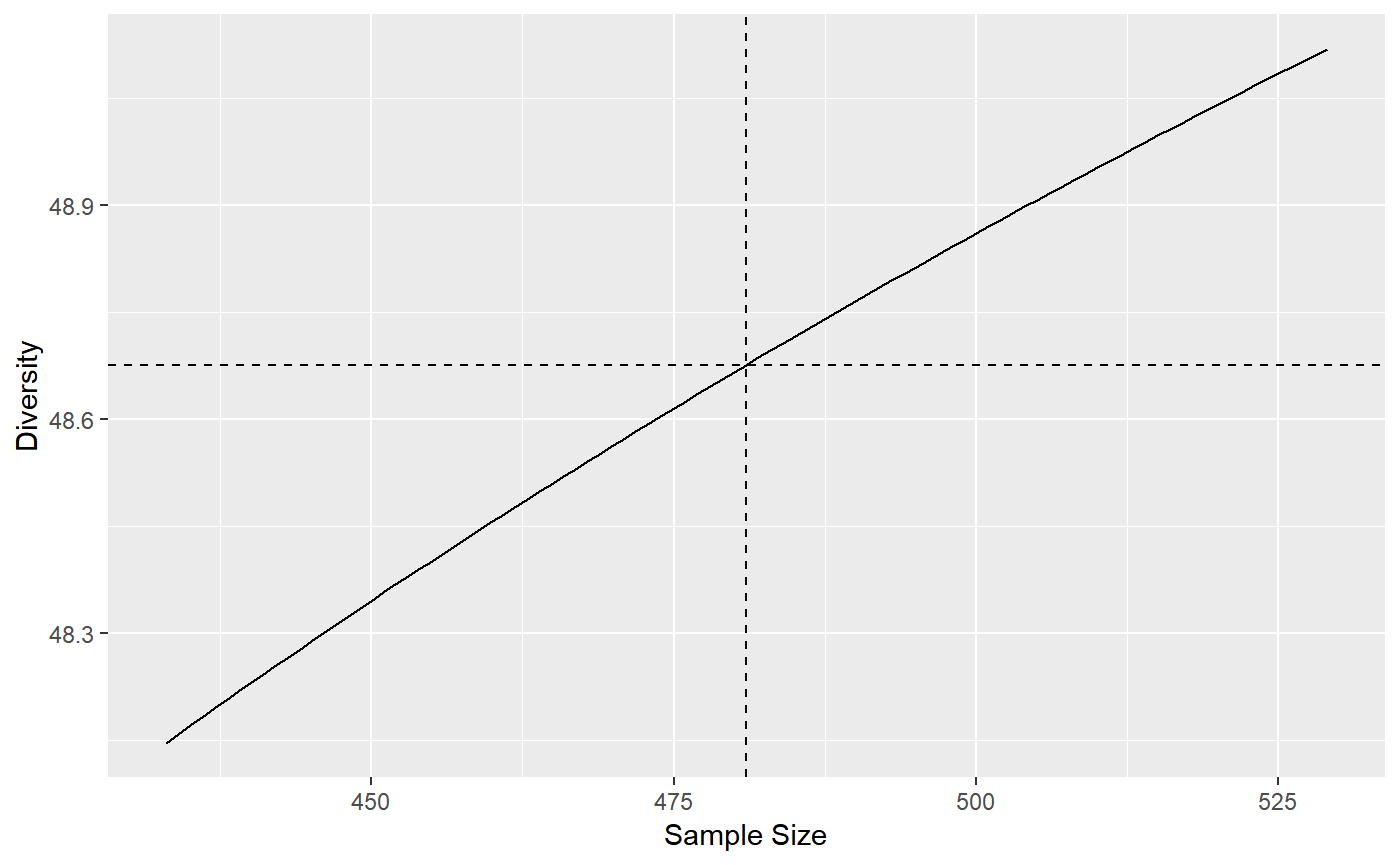
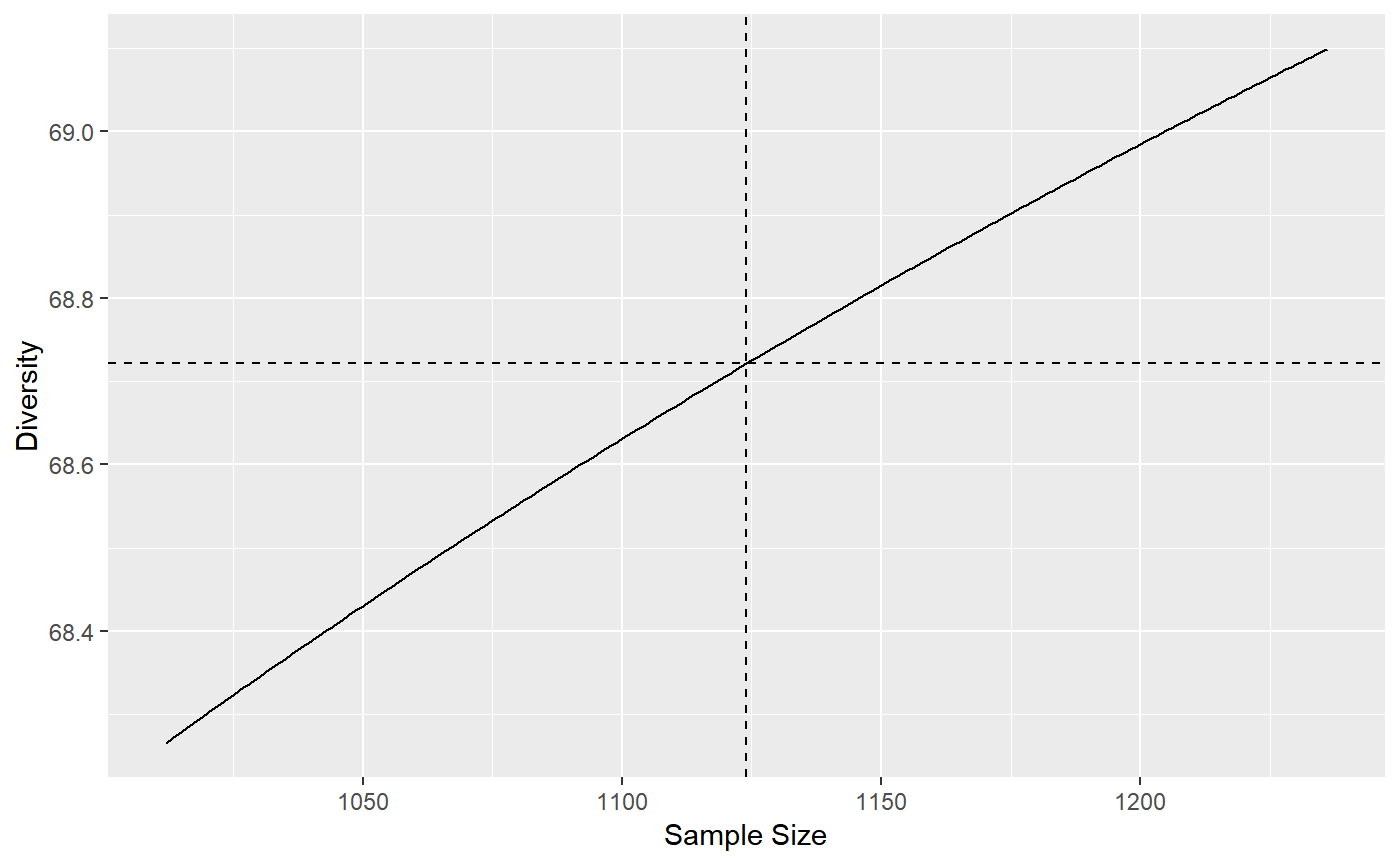
Consistency of extrapolation in accumulation, profiles and pointwise estimation

diff --git a/docs/dev/articles/articles/extrapolation.html b/docs/dev/articles/articles/extrapolation.html
@@ -38,7 +38,7 @@
       </button>
       <span class="navbar-brand">
         <a class="navbar-link" href="../../index.html">entropart</a>
-        <span class="version label label-danger" data-toggle="tooltip" data-placement="bottom" title="In-development version">1.5.3.9010</span>
+        <span class="version label label-danger" data-toggle="tooltip" data-placement="bottom" title="In-development version">1.5.3.9011</span>
       </span>
     </div>
 
@@ -116,71 +116,102 @@
 <div class="sourceCode"><pre class="sourceCode r"><code class="sourceCode r"><span class="kw"><a href="https://www.rdocumentation.org/packages/base/topics/library">library</a></span>(<span class="st">"entropart"</span>)</code></pre></div>
 <pre><code>## Le chargement a nécessité le package : ggplot2</code></pre>
 <div class="sourceCode"><pre class="sourceCode r"><code class="sourceCode r"><span class="kw"><a href="https://www.rdocumentation.org/packages/utils/topics/data">data</a></span>(<span class="st">"Paracou618"</span>)
-<span class="co"># 1 ha of tropical forest, distribution of probabilities</span>
-P18 &lt;-<span class="st"> </span>Paracou618.MC<span class="op">$</span>Psi[, <span class="st">"P018"</span>]
+<span class="co"># 2 ha of tropical forest, distribution of probabilities</span>
+ParacouP &lt;-<span class="st"> </span>Paracou618.MC<span class="op">$</span>Ps
 <span class="co"># Diversity of order 1, no reduce-bias estimator used.</span>
-<span class="kw"><a href="../../reference/Diversity.html">Diversity</a></span>(P18, <span class="dt">q=</span><span class="dv">1</span>)</code></pre></div>
-<pre><code>##     None 
-## 83.20917</code></pre>
+<span class="kw"><a href="../../reference/Diversity.html">Diversity</a></span>(ParacouP, <span class="dt">q=</span><span class="dv">1</span>)</code></pre></div>
+<pre><code>##   None 
+## 113.98</code></pre>
 <p>Further estimation requires abundance vectors, i.e. the number of individuals per species. Then, the default estimator is the asymptotic one.</p>
-<div class="sourceCode"><pre class="sourceCode r"><code class="sourceCode r"><span class="co"># 1 ha of tropical forest, distribution of abundances</span>
-N18 &lt;-<span class="st"> </span>Paracou618.MC<span class="op">$</span>Nsi[, <span class="st">"P018"</span>]
+<div class="sourceCode"><pre class="sourceCode r"><code class="sourceCode r"><span class="co"># 2 ha of tropical forest, distribution of abundances</span>
+ParacouN &lt;-<span class="st"> </span>Paracou618.MC<span class="op">$</span>Ns
 <span class="co"># Diversity of order 1, best asymptotic estimator used.</span>
-<span class="kw"><a href="../../reference/Diversity.html">Diversity</a></span>(N18, <span class="dt">q=</span><span class="dv">1</span>)</code></pre></div>
+<span class="kw"><a href="../../reference/Diversity.html">Diversity</a></span>(ParacouN, <span class="dt">q=</span><span class="dv">1</span>)</code></pre></div>
 <pre><code>##  UnveilJ 
-## 118.2713</code></pre>
+## 138.1078</code></pre>
 <p>Several asymptotic estimators are available in the literature and implemented in <em>entropart</em>. For consistency, <em>entropart</em> uses the jackknife estimator of richness and the unveiled jackknife estimator for entropy. The advantage of these estimators is that they provide reliable estimations even though the sampling effort is low: then, the estimation variance increases but its bias remains acceptable because the order of the jackknife estimator is chosen according to the data. Poorly-sampled communities are estimated by a higher-order jackknife, resulting in higher estimation variance.</p>
 <p>For well-sampled communities, i.e. in the domain of validity of the jacknife of order 1, The Chao1 estimator of diversity and the Chao-Jost estimator of entropy are the best choices because they have the best mathematical support, but they will severely underestimate the diversity of poorly-sampled communities. They also are more computer-intensive.</p>
-<div class="sourceCode"><pre class="sourceCode r"><code class="sourceCode r"><span class="co"># Estimation of richness relies on jackknife 3 (very poor sampling)</span>
-<span class="kw"><a href="../../reference/Richness.html">Richness</a></span>(N18)</code></pre></div>
-<pre><code>## Jackknife 3 
-##         309</code></pre>
+<div class="sourceCode"><pre class="sourceCode r"><code class="sourceCode r"><span class="co"># Estimation of richness relies on jackknife 2 (poor sampling)</span>
+<span class="kw"><a href="../../reference/Richness.html">Richness</a></span>(ParacouN)</code></pre></div>
+<pre><code>## Jackknife 2 
+##         359</code></pre>
 <div class="sourceCode"><pre class="sourceCode r"><code class="sourceCode r"><span class="co"># Richness is underestimated by Chao1 estimator</span>
-<span class="kw"><a href="../../reference/Richness.html">Richness</a></span>(N18, <span class="dt">Correction=</span><span class="st">"Chao1"</span>)</code></pre></div>
+<span class="kw"><a href="../../reference/Richness.html">Richness</a></span>(ParacouN, <span class="dt">Correction=</span><span class="st">"Chao1"</span>)</code></pre></div>
 <pre><code>##    Chao1 
-## 254.0888</code></pre>
+## 314.9348</code></pre>
 <div class="sourceCode"><pre class="sourceCode r"><code class="sourceCode r"><span class="co"># Diversity of order 1 underestimated by Chao-Jost estimator</span>
-<span class="kw"><a href="../../reference/Diversity.html">Diversity</a></span>(N18, <span class="dt">q=</span><span class="dv">1</span>, <span class="dt">Correction=</span><span class="st">"ChaoJost"</span>)</code></pre></div>
+<span class="kw"><a href="../../reference/Diversity.html">Diversity</a></span>(ParacouN, <span class="dt">q=</span><span class="dv">1</span>, <span class="dt">Correction=</span><span class="st">"ChaoJost"</span>)</code></pre></div>
 <pre><code>## ChaoJost 
-## 110.6652</code></pre>
+## 133.2409</code></pre>
 </div>
 <div id="choosing-the-estimation-level" class="section level1">
 <h1 class="hasAnchor">
 <a href="#choosing-the-estimation-level" class="anchor"></a>Choosing the estimation level</h1>
 <p>Asymptotic estimation is not always the best choice, for example when comparing the diversity of poorly-sampled communities: a lower sampe coverage can be chosen to limit the uncertainty of estimation.</p>
 <div class="sourceCode"><pre class="sourceCode r"><code class="sourceCode r"><span class="co"># Actual sample coverage</span>
-<span class="kw"><a href="../../reference/Coverage.html">Coverage</a></span>(N18)</code></pre></div>
+<span class="kw"><a href="../../reference/Coverage.html">Coverage</a></span>(ParacouN)</code></pre></div>
 <pre><code>## ZhangHuang 
-##  0.8463782</code></pre>
+##  0.9226675</code></pre>
 <p>The estimation level may be a sample size or a sample coverage that is converted internally into a sample size.</p>
 <div class="sourceCode"><pre class="sourceCode r"><code class="sourceCode r"><span class="co"># Diversity at half the sample size (interpolated)</span>
-<span class="kw"><a href="../../reference/Diversity.html">Diversity</a></span>(N18, <span class="dt">q=</span><span class="dv">1</span>, <span class="dt">Level=</span><span class="kw"><a href="https://www.rdocumentation.org/packages/base/topics/Round">round</a></span>(<span class="kw"><a href="https://www.rdocumentation.org/packages/base/topics/sum">sum</a></span>(N18)<span class="op">/</span><span class="dv">2</span>))</code></pre></div>
-<pre><code>##   Interp 
-## 67.84872</code></pre>
+<span class="kw"><a href="../../reference/Diversity.html">Diversity</a></span>(ParacouN, <span class="dt">q=</span><span class="dv">1</span>, <span class="dt">Level=</span><span class="kw"><a href="https://www.rdocumentation.org/packages/base/topics/Round">round</a></span>(<span class="kw"><a href="https://www.rdocumentation.org/packages/base/topics/sum">sum</a></span>(ParacouN)<span class="op">/</span><span class="dv">2</span>))</code></pre></div>
+<pre><code>##  Interp 
+## 100.016</code></pre>
 <div class="sourceCode"><pre class="sourceCode r"><code class="sourceCode r"><span class="co"># Sample size corresponding to 90% coverage</span>
-<span class="kw"><a href="../../reference/Coverage.html">Coverage2Size</a></span>(N18, <span class="dt">SampleCoverage=</span><span class="fl">0.9</span>)</code></pre></div>
-<pre><code>## [1] 774</code></pre>
+<span class="kw"><a href="../../reference/Coverage.html">Coverage2Size</a></span>(ParacouN, <span class="dt">SampleCoverage=</span><span class="fl">0.9</span>)</code></pre></div>
+<pre><code>## [1] 861</code></pre>
 <div class="sourceCode"><pre class="sourceCode r"><code class="sourceCode r"><span class="co"># Diversity at 90% sample coverage</span>
-<span class="kw"><a href="../../reference/Diversity.html">Diversity</a></span>(N18, <span class="dt">q=</span><span class="dv">1</span>, <span class="dt">Level=</span><span class="fl">0.9</span>)</code></pre></div>
-<pre><code>##     Best 
-## 95.05594</code></pre>
+<span class="kw"><a href="../../reference/Diversity.html">Diversity</a></span>(ParacouN, <span class="dt">q=</span><span class="dv">1</span>, <span class="dt">Level=</span><span class="fl">0.9</span>)</code></pre></div>
+<pre><code>##   Interp 
+## 109.1493</code></pre>
 <div class="sourceCode"><pre class="sourceCode r"><code class="sourceCode r"><span class="co"># Equal to </span>
-<span class="kw"><a href="../../reference/Diversity.html">Diversity</a></span>(N18, <span class="dt">q=</span><span class="dv">1</span>, <span class="dt">Level=</span><span class="kw"><a href="../../reference/Coverage.html">Coverage2Size</a></span>(N18, <span class="dt">SampleCoverage=</span><span class="fl">0.9</span>))</code></pre></div>
-<pre><code>##     Best 
-## 95.05594</code></pre>
+<span class="kw"><a href="../../reference/Diversity.html">Diversity</a></span>(ParacouN, <span class="dt">q=</span><span class="dv">1</span>, <span class="dt">Level=</span><span class="kw"><a href="../../reference/Coverage.html">Coverage2Size</a></span>(ParacouN, <span class="dt">SampleCoverage=</span><span class="fl">0.9</span>))</code></pre></div>
+<pre><code>##   Interp 
+## 109.1493</code></pre>
 <p>If the sample size is smaller than the actual sample, entropy is interpolated.</p>
 <p>If it is higher, entropy must be extrapolated. For diversity orders equal to 0 (richness), 1 (Shannon) or 2 (Simpson), explicit, almost unbiased estimators are used. Continuity of the estimation of diversity around the actual sample size is guaranted.</p>
 <div class="sourceCode"><pre class="sourceCode r"><code class="sourceCode r"><span class="co"># Simpson diversity at levels from 0.9 to 1.1 times the sample size</span>
-Accumulation2 &lt;-<span class="st"> </span><span class="kw"><a href="../../reference/Accumulation.html">DivAC</a></span>(N18, <span class="dt">q=</span><span class="dv">2</span>, <span class="dt">n.seq=</span><span class="kw"><a href="https://www.rdocumentation.org/packages/base/topics/Round">round</a></span>(<span class="fl">0.9</span><span class="op">*</span><span class="kw"><a href="https://www.rdocumentation.org/packages/base/topics/sum">sum</a></span>(N18))<span class="op">:</span><span class="kw"><a href="https://www.rdocumentation.org/packages/base/topics/Round">round</a></span>(<span class="fl">1.1</span><span class="op">*</span><span class="kw"><a href="https://www.rdocumentation.org/packages/base/topics/sum">sum</a></span>(N18)))</code></pre></div>
+Accumulation2 &lt;-<span class="st"> </span><span class="kw"><a href="../../reference/Accumulation.html">DivAC</a></span>(ParacouN, <span class="dt">q=</span><span class="dv">2</span>, <span class="dt">n.seq=</span><span class="kw"><a href="https://www.rdocumentation.org/packages/base/topics/Round">round</a></span>(<span class="fl">0.9</span><span class="op">*</span><span class="kw"><a href="https://www.rdocumentation.org/packages/base/topics/sum">sum</a></span>(ParacouN))<span class="op">:</span><span class="kw"><a href="https://www.rdocumentation.org/packages/base/topics/Round">round</a></span>(<span class="fl">1.1</span><span class="op">*</span><span class="kw"><a href="https://www.rdocumentation.org/packages/base/topics/sum">sum</a></span>(ParacouN)))</code></pre></div>
 <pre><code>## ===========================================================================</code></pre>
 <div class="sourceCode"><pre class="sourceCode r"><code class="sourceCode r"><span class="kw">autoplot</span>(Accumulation2)</code></pre></div>
 <p><img src="extrapolation_files/figure-html/unnamed-chunk-5-1.png" width="700"></p>
 <p>For non-integer orders, things get more complicated. In <em>entropart</em>, asymptotic entropy is estimated by the unveiled jackknife estimator and rarefied down to the actual sample size. There is no reason for it to correspond exactly to the observed entropy. The asymptotic richness is the less robust part of the estimation thus it is adjusted iteratively until the rarefied entropy equals the actual sample’s entropy, ensuring continuity between interpolation and extrapolation.</p>
+</div>
+<div id="diversity-accumulation" class="section level1">
+<h1 class="hasAnchor">
+<a href="#diversity-accumulation" class="anchor"></a>Diversity accumulation</h1>
+<p>Diversity Accumulation Curves (DAC) are a generalization of the well-known Species Accumumulation Curves (SAC). They represent diversity as a function of sample size.</p>
+<p>The <code>DivAc()</code>function allows to build them. A bootstrap confindence interval can be calculated around the estimated DAC by simulating random multinomial draws of the asymtpotic distribution at each sample size.</p>
 <div class="sourceCode"><pre class="sourceCode r"><code class="sourceCode r"><span class="co"># Diversity at levels from 1 to twice the sample size</span>
-Accumulation &lt;-<span class="st"> </span><span class="kw"><a href="../../reference/Accumulation.html">DivAC</a></span>(N18, <span class="dt">q=</span><span class="fl">1.5</span>, <span class="dt">n.seq=</span><span class="dv">1</span><span class="op">:</span>(<span class="dv">2</span><span class="op">*</span><span class="kw"><a href="https://www.rdocumentation.org/packages/base/topics/sum">sum</a></span>(N18)))</code></pre></div>
-<pre><code>## ===========================================================================</code></pre>
+Accumulation &lt;-<span class="st"> </span><span class="kw"><a href="../../reference/Accumulation.html">DivAC</a></span>(ParacouN, <span class="dt">q=</span><span class="dv">1</span>, <span class="dt">n.seq=</span><span class="dv">1</span><span class="op">:</span>(<span class="fl">1.1</span><span class="op">*</span><span class="kw"><a href="https://www.rdocumentation.org/packages/base/topics/sum">sum</a></span>(ParacouN)), <span class="dt">NumberOfSimulations =</span> <span class="dv">1000</span>)</code></pre></div>
+<pre><code>## ===========================================================================
+                                                                           
+===========================================================================</code></pre>
 <div class="sourceCode"><pre class="sourceCode r"><code class="sourceCode r"><span class="kw">autoplot</span>(Accumulation)</code></pre></div>
 <p><img src="extrapolation_files/figure-html/unnamed-chunk-6-1.png" width="700"></p>
+<p>To ensure continuity of the DAC around the actual sample, the asymptotic diversity is estimated by unveiling the aysmptotic distribution, choosing the number of species such that the rarefied diversity at the observed sample size is the observed diversity. This means that the extrapolated diversity at a high sample coverage will differ from the best asymptotic estimation, sometimes quite much if sampling level is poor.</p>
+<div class="sourceCode"><pre class="sourceCode r"><code class="sourceCode r"><span class="co"># Extrapolation at 99.99% sample coverage</span>
+<span class="kw"><a href="../../reference/Diversity.html">Diversity</a></span>(ParacouN, <span class="dt">q=</span><span class="dv">1</span>, <span class="dt">Level=</span><span class="fl">0.9999</span>)</code></pre></div>
+<pre><code>##     Best 
+## 128.3196</code></pre>
+<div class="sourceCode"><pre class="sourceCode r"><code class="sourceCode r"><span class="co"># Unveiled Jaccknife asymptotic estimator</span>
+<span class="kw"><a href="../../reference/Diversity.html">Diversity</a></span>(ParacouN, <span class="dt">q=</span><span class="dv">1</span>)</code></pre></div>
+<pre><code>##  UnveilJ 
+## 138.1078</code></pre>
+<div class="sourceCode"><pre class="sourceCode r"><code class="sourceCode r"><span class="co"># Chao-Jost estimator</span>
+<span class="kw"><a href="../../reference/Diversity.html">Diversity</a></span>(ParacouN, <span class="dt">q=</span><span class="dv">1</span>, <span class="dt">Correction=</span><span class="st">"ChaoJost"</span>)</code></pre></div>
+<pre><code>## ChaoJost 
+## 133.2409</code></pre>
+</div>
+<div id="diversity-profiles-at-a-sampling-level" class="section level1">
+<h1 class="hasAnchor">
+<a href="#diversity-profiles-at-a-sampling-level" class="anchor"></a>Diversity profiles at a sampling level</h1>
+<p>Diversity profiles are usually asymptotic but they can be calculated at any coverage of sampling level.</p>
+<div class="sourceCode"><pre class="sourceCode r"><code class="sourceCode r"><span class="co"># Diversity at levels from 1 to twice the sample size</span>
+Profile &lt;-<span class="st"> </span><span class="kw"><a href="../../reference/CommunityProfile.html">CommunityProfile</a></span>(Diversity, ParacouN, <span class="dt">Level=</span><span class="kw"><a href="https://www.rdocumentation.org/packages/base/topics/sum">sum</a></span>(ParacouN)<span class="op">*</span><span class="fl">1.5</span>)
+<span class="kw">autoplot</span>(Profile)</code></pre></div>
+<p><img src="extrapolation_files/figure-html/unnamed-chunk-8-1.png" width="700"></p>
+<p>Extrapolated diversity is estimated at each order such that it is continuous at the observed sample size.</p>
 </div>
   </div>
 
@@ -191,6 +222,8 @@ Accumulation &lt;-<span class="st"> </span><span class="kw"><a href="../../refer
       <ul class="nav nav-pills nav-stacked">
 <li><a href="#asymptotic-estimation">Asymptotic estimation</a></li>
       <li><a href="#choosing-the-estimation-level">Choosing the estimation level</a></li>
+      <li><a href="#diversity-accumulation">Diversity accumulation</a></li>
+      <li><a href="#diversity-profiles-at-a-sampling-level">Diversity profiles at a sampling level</a></li>
       </ul>
 </div>
       </div>

diff --git a/docs/dev/reference/Shannon.html b/docs/dev/reference/Shannon.html
@@ -72,7 +72,7 @@
       </button>
       <span class="navbar-brand">
         <a class="navbar-link" href="../index.html">entropart</a>
-        <span class="version label label-danger" data-toggle="tooltip" data-placement="bottom" title="In-development version">1.5.3.9008</span>
+        <span class="version label label-danger" data-toggle="tooltip" data-placement="bottom" title="In-development version">1.5.3.9011</span>
       </span>
     </div>
 
@@ -97,6 +97,9 @@
     <span class="caret"></span>
   </a>
   <ul class="dropdown-menu" role="menu">
+    <li>
+      <a href="../articles/articles/extrapolation.html">Asymptotic Estimation, Interpolation and Extrapolation </a>
+    </li>
     <li>
       <a href="../articles/articles/phylogenies.html">Phylogenies in entropart</a>
     </li>
@@ -145,13 +148,16 @@ bcShannon(Ns, Correction = "Best", CheckArguments = TRUE)
 # S3 method for ProbaVector
 Shannon(NorP, &#8230;, CheckArguments = TRUE, Ps = NULL)
 # S3 method for AbdVector
-Shannon(NorP, Correction = "Best", Level = NULL, &#8230;, 
+Shannon(NorP, Correction = "Best", Level = NULL,
+  PCorrection = "Chao2015", Unveiling = "geom", RCorrection = "Rarefy", &#8230;, 
   CheckArguments = TRUE, Ns = NULL)
 # S3 method for integer
-Shannon(NorP, Correction = "Best", Level = NULL, &#8230;, 
+Shannon(NorP, Correction = "Best", Level = NULL,
+  PCorrection = "Chao2015", Unveiling = "geom", RCorrection = "Rarefy", &#8230;, 
   CheckArguments = TRUE, Ns = NULL)
 # S3 method for numeric
-Shannon(NorP, Correction = "Best", Level = NULL, &#8230;, 
+Shannon(NorP, Correction = "Best", Level = NULL, 
+  PCorrection = "Chao2015", Unveiling = "geom", RCorrection = "Rarefy", &#8230;, 
   CheckArguments = TRUE, Ps = NULL, Ns = NULL)</pre>
     
     <h2 class="hasAnchor" id="arguments"><a class="anchor" href="#arguments"></a>Arguments</h2>
@@ -176,6 +182,18 @@ Shannon(NorP, Correction = "Best", Level = NULL, &#8230;,
     <tr>
       <th>Level</th>
       <td><p>The level of interpolation or extrapolation. It may be an a chosen sample size (an integer) or a sample coverage (a number between 0 and 1). Entropy extrapolation require its asymptotic estimation depending on the choice of <code>Correction</code>. Entropy interpolation relies on the estimation of Abundance Frequence Counts: then, <code>Correction</code> is passed to <code><a href='AbdFreqCount.html'>AbdFreqCount</a></code> as its <code>Estimator</code> argument.</p></td>
+    </tr>
+    <tr>
+      <th>PCorrection</th>
+      <td><p>A string containing one of the possible corrections to estimate a probability distribution in <code><a href='SpeciesDistribution.html'>as.ProbaVector</a></code>: <code>"Chao2015"</code> is the default value. Used only for extrapolation.</p></td>
+    </tr>
+    <tr>
+      <th>Unveiling</th>
+      <td><p>A string containing one of the possible unveiling methods to estimate the probabilities of the unobserved species in <code><a href='SpeciesDistribution.html'>as.ProbaVector</a></code>: <code>"geom"</code> (the unobserved species distribution is geometric) is the default value. Used only for extrapolation.</p></td>
+    </tr>
+    <tr>
+      <th>RCorrection</th>
+      <td><p>A string containing a correction recognized by <code><a href='Richness.html'>Richness</a></code> to evaluate the total number of species in <code><a href='SpeciesDistribution.html'>as.ProbaVector</a></code>. <code>"Rarefy"</code> is the default value to estimate the number of species such that the entropy of the asymptotic distribution rarefied to the observed sample size equals the observed entropy of the data. Used only for extrapolation.</p></td>
     </tr>
     <tr>
       <th>&#8230;</th>

diff --git a/docs/dev/reference/Richness.html b/docs/dev/reference/Richness.html
@@ -72,7 +72,7 @@
       </button>
       <span class="navbar-brand">
         <a class="navbar-link" href="../index.html">entropart</a>
-        <span class="version label label-danger" data-toggle="tooltip" data-placement="bottom" title="In-development version">1.5.3.9008</span>
+        <span class="version label label-danger" data-toggle="tooltip" data-placement="bottom" title="In-development version">1.5.3.9011</span>
       </span>
     </div>
 
@@ -97,6 +97,9 @@
     <span class="caret"></span>
   </a>
   <ul class="dropdown-menu" role="menu">
+    <li>
+      <a href="../articles/articles/extrapolation.html">Asymptotic Estimation, Interpolation and Extrapolation </a>
+    </li>
     <li>
       <a href="../articles/articles/phylogenies.html">Phylogenies in entropart</a>
     </li>
@@ -147,13 +150,16 @@ bcRichness(Ns, Correction = "Best", Alpha = 0.05, JackOver = FALSE,
 Richness(NorP, &#8230;, CheckArguments = TRUE, Ps = NULL)
 # S3 method for AbdVector
 Richness(NorP, Correction = "Best", Alpha = 0.05, JackOver = FALSE, 
-  Level = NULL, &#8230;, CheckArguments = TRUE, Ns = NULL)
+  Level = NULL, PCorrection = "Chao2015", Unveiling = "geom", RCorrection = "Rarefy",
+  &#8230;, CheckArguments = TRUE, Ns = NULL)
 # S3 method for integer
 Richness(NorP, Correction = "Best", Alpha = 0.05, JackOver = FALSE, 
-  Level = NULL, &#8230;, CheckArguments = TRUE, Ns = NULL)
+  Level = NULL, PCorrection = "Chao2015", Unveiling = "geom", RCorrection = "Rarefy",
+  &#8230;, CheckArguments = TRUE, Ns = NULL)
 # S3 method for numeric
 Richness(NorP, Correction = "Best", Alpha = 0.05, JackOver = FALSE, 
-  Level = NULL, &#8230;, CheckArguments = TRUE, Ps = NULL, Ns = NULL)</pre>
+  Level = NULL, PCorrection = "Chao2015", Unveiling = "geom", RCorrection = "Rarefy",
+  &#8230;, CheckArguments = TRUE, Ps = NULL, Ns = NULL)</pre>
     
     <h2 class="hasAnchor" id="arguments"><a class="anchor" href="#arguments"></a>Arguments</h2>
     <table class="ref-arguments">
@@ -185,6 +191,18 @@ Richness(NorP, Correction = "Best", Alpha = 0.05, JackOver = FALSE,
     <tr>
       <th>Level</th>
       <td><p>The level of interpolation or extrapolation. It may be an a chosen sample size (an integer) or a sample coverage (a number between 0 and 1). Richness extrapolation require its asymptotic estimation depending on the choice of <code>Correction</code>.</p></td>
+    </tr>
+    <tr>
+      <th>PCorrection</th>
+      <td><p>A string containing one of the possible corrections to estimate a probability distribution in <code><a href='SpeciesDistribution.html'>as.ProbaVector</a></code>: <code>"Chao2015"</code> is the default value. Used only for extrapolation.</p></td>
+    </tr>
+    <tr>
+      <th>Unveiling</th>
+      <td><p>A string containing one of the possible unveiling methods to estimate the probabilities of the unobserved species in <code><a href='SpeciesDistribution.html'>as.ProbaVector</a></code>: <code>"geom"</code> (the unobserved species distribution is geometric) is the default value. Used only for extrapolation.</p></td>
+    </tr>
+    <tr>
+      <th>RCorrection</th>
+      <td><p>A string containing a correction recognized by <code>Richness</code> to evaluate the total number of species in <code><a href='SpeciesDistribution.html'>as.ProbaVector</a></code>. <code>"Rarefy"</code> is the default value to estimate the number of species such that the entropy of the asymptotic distribution rarefied to the observed sample size equals the observed entropy of the data. Used only for extrapolation.</p></td>
     </tr>
     <tr>
       <th>&#8230;</th>

diff --git a/docs/dev/reference/Tsallis.html b/docs/dev/reference/Tsallis.html
@@ -72,7 +72,7 @@
       </button>
       <span class="navbar-brand">
         <a class="navbar-link" href="../index.html">entropart</a>
-        <span class="version label label-danger" data-toggle="tooltip" data-placement="bottom" title="In-development version">1.5.3.9008</span>
+        <span class="version label label-danger" data-toggle="tooltip" data-placement="bottom" title="In-development version">1.5.3.9011</span>
       </span>
     </div>
 
@@ -97,6 +97,9 @@
     <span class="caret"></span>
   </a>
   <ul class="dropdown-menu" role="menu">
+    <li>
+      <a href="../articles/articles/extrapolation.html">Asymptotic Estimation, Interpolation and Extrapolation </a>
+    </li>
     <li>
       <a href="../articles/articles/phylogenies.html">Phylogenies in entropart</a>
     </li>
@@ -192,7 +195,7 @@ Tsallis(NorP, q = 1, Correction = "Best", Level = NULL,
     </tr>
     <tr>
       <th>Unveiling</th>
-      <td><p>A string containing one of the possible unveiling methods to estimate the probabilities of the unobserved species in <code><a href='SpeciesDistribution.html'>as.ProbaVector</a></code>: <code>"geom"</code> (geometric: the unobserved species distribution is geometric) is the default value. Used only for extrapolation.</p></td>
+      <td><p>A string containing one of the possible unveiling methods to estimate the probabilities of the unobserved species in <code><a href='SpeciesDistribution.html'>as.ProbaVector</a></code>: <code>"geom"</code> (the unobserved species distribution is geometric) is the default value. Used only for extrapolation.</p></td>
     </tr>
     <tr>
       <th>RCorrection</th>

diff --git a/docs/dev/news/index.html b/docs/dev/news/index.html
@@ -70,7 +70,7 @@
       </button>
       <span class="navbar-brand">
         <a class="navbar-link" href="../index.html">entropart</a>
-        <span class="version label label-danger" data-toggle="tooltip" data-placement="bottom" title="In-development version">1.5.3.9010</span>
+        <span class="version label label-danger" data-toggle="tooltip" data-placement="bottom" title="In-development version">1.5.3.9011</span>
       </span>
     </div>
 
@@ -134,9 +134,9 @@
       <small>Source: <a href='https://github.com/EricMarcon/entropart/blob/master/NEWS.md'><code>NEWS.md</code></a></small>
     </div>
 
-    <div id="entropart-1-5-3-9010" class="section level1">
+    <div id="entropart-1-5-3-9011" class="section level1">
 <h1 class="page-header">
-<a href="#entropart-1-5-3-9010" class="anchor"></a>entropart 1.5-3-9010<small> Unreleased </small>
+<a href="#entropart-1-5-3-9011" class="anchor"></a>entropart 1.5-3-9011<small> Unreleased </small>
 </h1>
 <div id="new-features" class="section level2">
 <h2 class="hasAnchor">
@@ -495,7 +495,7 @@
     <div id="tocnav">
       <h2>Contents</h2>
       <ul class="nav nav-pills nav-stacked">
-        <li><a href="#entropart-1-5-3-9010">1.5-3-9010</a></li>
+        <li><a href="#entropart-1-5-3-9011">1.5-3-9011</a></li>
         <li><a href="#entropart-1-5-3">1.5-3</a></li>
         <li><a href="#entropart-1-4-8">1.4-8</a></li>
         <li><a href="#entropart-1-4-7">1.4-7</a></li>

diff --git a/docs/dev/articles/index.html b/docs/dev/articles/index.html
@@ -70,7 +70,7 @@
       </button>
       <span class="navbar-brand">
         <a class="navbar-link" href="../index.html">entropart</a>
-        <span class="version label label-danger" data-toggle="tooltip" data-placement="bottom" title="In-development version">1.5.3.9010</span>
+        <span class="version label label-danger" data-toggle="tooltip" data-placement="bottom" title="In-development version">1.5.3.9011</span>
       </span>
     </div>
 

diff --git a/docs/dev/reference/index.html b/docs/dev/reference/index.html
@@ -70,7 +70,7 @@
       </button>
       <span class="navbar-brand">
         <a class="navbar-link" href="../index.html">entropart</a>
-        <span class="version label label-danger" data-toggle="tooltip" data-placement="bottom" title="In-development version">1.5.3.9010</span>
+        <span class="version label label-danger" data-toggle="tooltip" data-placement="bottom" title="In-development version">1.5.3.9011</span>
       </span>
     </div>
 

diff --git a/docs/dev/authors.html b/docs/dev/authors.html
@@ -70,7 +70,7 @@
       </button>
       <span class="navbar-brand">
         <a class="navbar-link" href="index.html">entropart</a>
-        <span class="version label label-danger" data-toggle="tooltip" data-placement="bottom" title="In-development version">1.5.3.9010</span>
+        <span class="version label label-danger" data-toggle="tooltip" data-placement="bottom" title="In-development version">1.5.3.9011</span>
       </span>
     </div>
 

diff --git a/docs/dev/index.html b/docs/dev/index.html
@@ -40,7 +40,7 @@
       </button>
       <span class="navbar-brand">
         <a class="navbar-link" href="index.html">entropart</a>
-        <span class="version label label-danger" data-toggle="tooltip" data-placement="bottom" title="In-development version">1.5.3.9010</span>
+        <span class="version label label-danger" data-toggle="tooltip" data-placement="bottom" title="In-development version">1.5.3.9011</span>
       </span>
     </div>
 

diff --git a/NEWS.md b/NEWS.md
@@ -1,4 +1,4 @@
-# entropart 1.5-3-9010
+# entropart 1.5-3-9011
 
 ## New features
 
